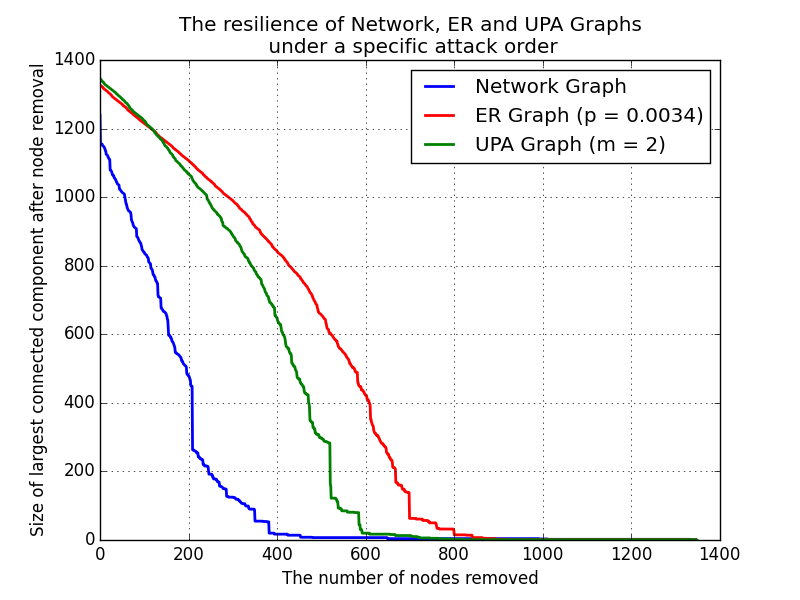
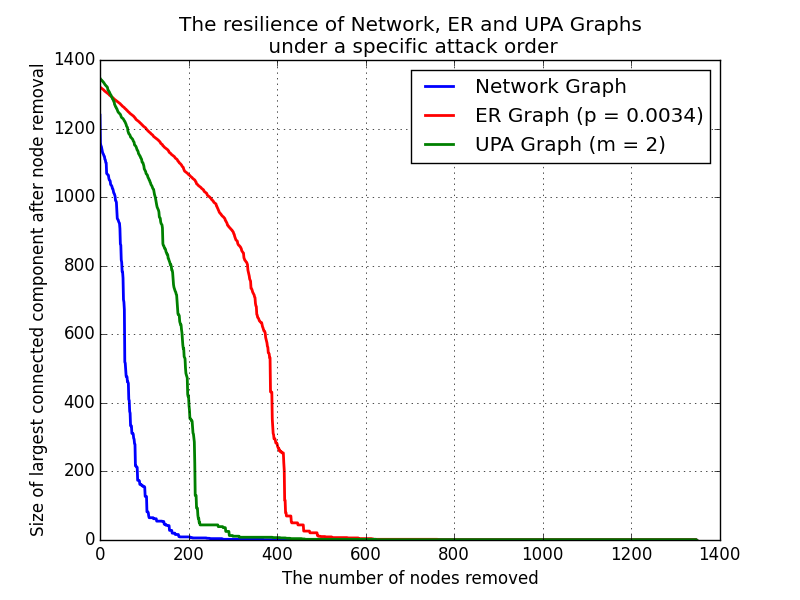
Fix bug

diff --git a/Computer Network Analysis.py b/Computer Network Analysis.py
@@ -271,17 +271,16 @@ def fast_targeted_order(ugraph):
     for node in temp_ugraph.keys():      # Create the degree_set
         degree = len(temp_ugraph[node])
         degree_sets[degree].add(node)
-    for degree in range(num_nodes- 1, 0, -1):
+    for degree in range(num_nodes- 1, -1, -1):
         while len(degree_sets[degree]) != 0:
             tail = degree_sets[degree].pop()
             for head in temp_ugraph[tail]:
-                degree = len(temp_ugraph[head])
-                degree_sets[degree].remove(head)
-                degree_sets[degree - 1].add(head)
+                head_degree = len(temp_ugraph[head])
+                degree_sets[head_degree].remove(head)
+                degree_sets[head_degree - 1].add(head)
                 temp_ugraph[head].remove(tail)
             temp_ugraph.pop(tail)
             order.append(tail)
-    order.extend(temp_ugraph.keys())
     return order
 
 
@@ -296,9 +295,9 @@ def fast_targeted_order(ugraph):
 # print "faster target order time = ", time2 - time1
 
 
-network_graph = load_graph(NETWORK_URL)
-uer_graph = UER_graph(1347, 0.0034)
-upa_graph = UPA_graph(1347, 2)
+# network_graph = load_graph(NETWORK_URL)
+# uer_graph = UER_graph(1347, 0.0034)
+# upa_graph = UPA_graph(1347, 2)
 #
 #
 """
@@ -322,27 +321,27 @@ Question 1, plot the resilience for all these graph versus number of nodes remov
 """
 Question 3, analyze the running time of these two methods on UPA graphs of size n with m=5.
 """
-# slow_running_times = []
-# fast_running_times = []
-# for final_num in range(10, 1000, 10):
-#     upa_graph = UPA_graph(final_num, 5)
-#     time0 = time.time()
-#     slow_order = targeted_order(upa_graph)
-#     time1 = time.time()
-#     fast_order = fast_targeted_order(upa_graph)
-#     time2 = time.time()
-#     slow_running_times.append(time1 - time0)
-#     fast_running_times.append(time2 - time1)
-# print 'slow', slow_running_times
-# print 'fast', fast_running_times
-# plt.plot(range(10, 1000, 10), slow_running_times, 'r', lw = 2, label = 'Provided target order generation method')
-# plt.plot(range(10, 1000, 10), fast_running_times, 'g', lw = 2, label = 'Fast target order generation method')
-# plt.legend(loc = 'upper left')
-# plt.xlabel('Size of UPA graph n')
-# plt.ylabel('Running time (unit = second)')
-# plt.title('Comparison of Running time \n for generating target order from UPA graphs  (Desktop Python)')
-# plt.grid()
-# plt.show()
+slow_running_times = []
+fast_running_times = []
+for final_num in range(10, 1000, 10):
+    upa_graph = UPA_graph(final_num, 5)
+    time0 = time.time()
+    slow_order = targeted_order(upa_graph)
+    time1 = time.time()
+    fast_order = fast_targeted_order(upa_graph)
+    time2 = time.time()
+    slow_running_times.append(time1 - time0)
+    fast_running_times.append(time2 - time1)
+print 'slow', slow_running_times
+print 'fast', fast_running_times
+plt.plot(range(10, 1000, 10), slow_running_times, 'r', lw = 2, label = 'Provided target order generation method')
+plt.plot(range(10, 1000, 10), fast_running_times, 'g', lw = 2, label = 'Fast target order generation method')
+plt.legend(loc = 'upper left')
+plt.xlabel('Size of UPA graph n')
+plt.ylabel('Running time (unit = second)')
+plt.title('Comparison of Running time \n for generating target order from UPA graphs  (Desktop Python)')
+plt.grid()
+plt.show()
 
 
 """
@@ -350,21 +349,21 @@ Question 4, continue the analysis of the computer network, and exam its resilien
  in which servers are chosen based on their connectivity. Then again compare the resilience of
  the computer network to that of UER and UPA random graphs of similar size.
 """
-network_order = fast_targeted_order(network_graph)
-uer_order = fast_targeted_order(uer_graph)
-upa_order = fast_targeted_order(upa_graph)
-network_res = compute_resilience(network_graph, network_order)
-uer_res = compute_resilience(uer_graph, uer_order)
-upa_res = compute_resilience(upa_graph, upa_order)
-plt.plot(network_res, '-b', lw = 2, label = 'Network Graph')
-plt.plot(uer_res, '-r', lw = 2, label='ER Graph (p = 0.0034)')
-plt.plot(upa_res, '-g', lw = 2, label = 'UPA Graph (m = 2)')
-plt.xlabel('The number of nodes removed')
-plt.ylabel('Size of largest connected component after node removal')
-plt.title('The resilience of Network, ER and UPA Graphs \n under a specific attack order')
-plt.grid()
-plt.legend()
-plt.show()
+# network_order = fast_targeted_order(network_graph)
+# uer_order = fast_targeted_order(uer_graph)
+# upa_order = fast_targeted_order(upa_graph)
+# network_res = compute_resilience(network_graph, network_order)
+# uer_res = compute_resilience(uer_graph, uer_order)
+# upa_res = compute_resilience(upa_graph, upa_order)
+# plt.plot(network_res, '-b', lw = 2, label = 'Network Graph')
+# plt.plot(uer_res, '-r', lw = 2, label='ER Graph (p = 0.0034)')
+# plt.plot(upa_res, '-g', lw = 2, label = 'UPA Graph (m = 2)')
+# plt.xlabel('The number of nodes removed')
+# plt.ylabel('Size of largest connected component after node removal')
+# plt.title('The resilience of Network, ER and UPA Graphs \n under a specific attack order')
+# plt.grid()
+# plt.legend()
+# plt.show()
 
 
 # # Compare resilience of UPA graph under different attacks
@@ -377,3 +376,22 @@ plt.show()
 # plt.grid()
 # plt.legend()
 # plt.show()
+
+# Compare resilience of computer network under vulnerable attack by different order generation method
+# network_order_slow = targeted_order(network_graph)
+# network_res_slow = compute_resilience(network_graph, network_order_slow)
+# plt.plot(network_res_slow, '-r', lw = 2, label = "Slow attack order generator")
+# plt.legend()
+# plt.show()
+
+# test_graph = UER_graph(40, 0.1)
+# print test_graph
+# print test_graph.keys()
+# print map(len, test_graph.values())
+#
+# order1 = targeted_order(test_graph)
+# order2 = fast_targeted_order(test_graph)
+# print len(order1), len(order2)
+# print 'slow:', order1
+# print 'fast:', order2
+# print order1==order2
